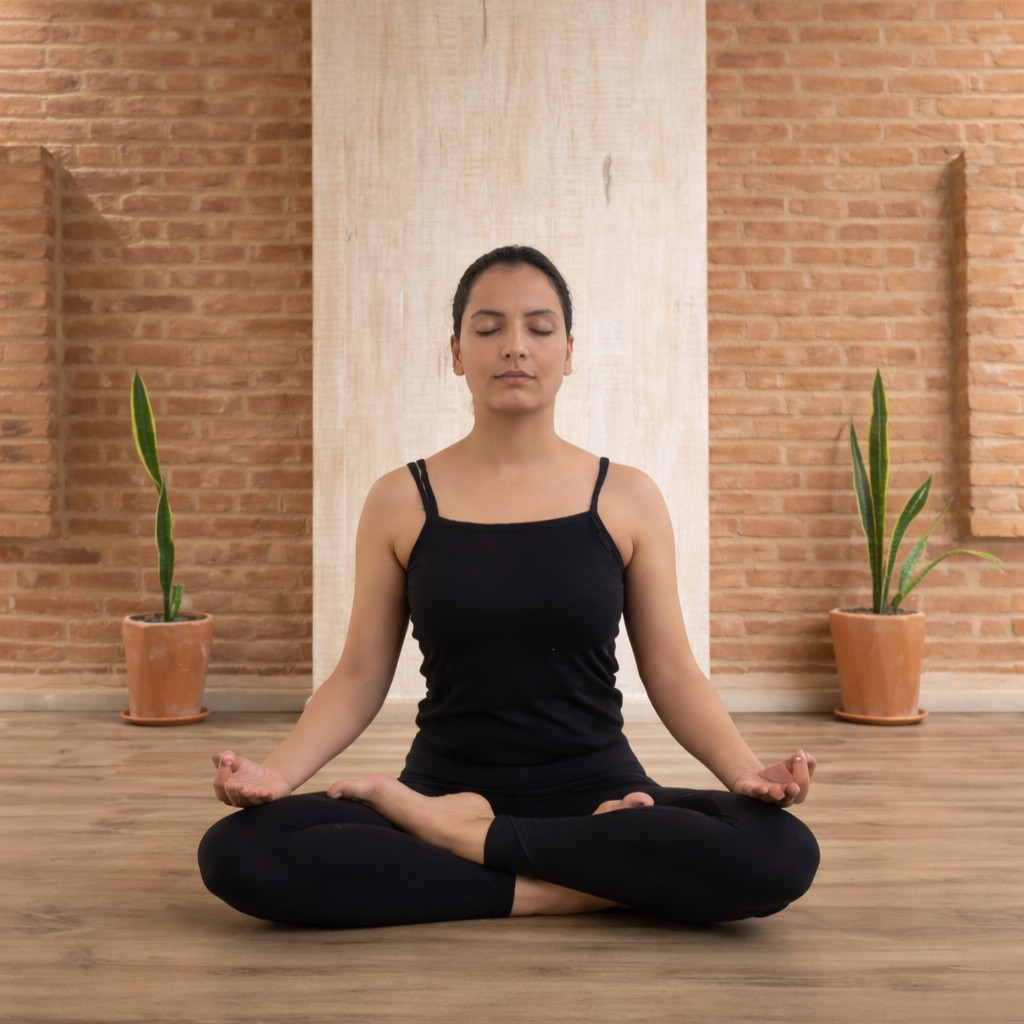
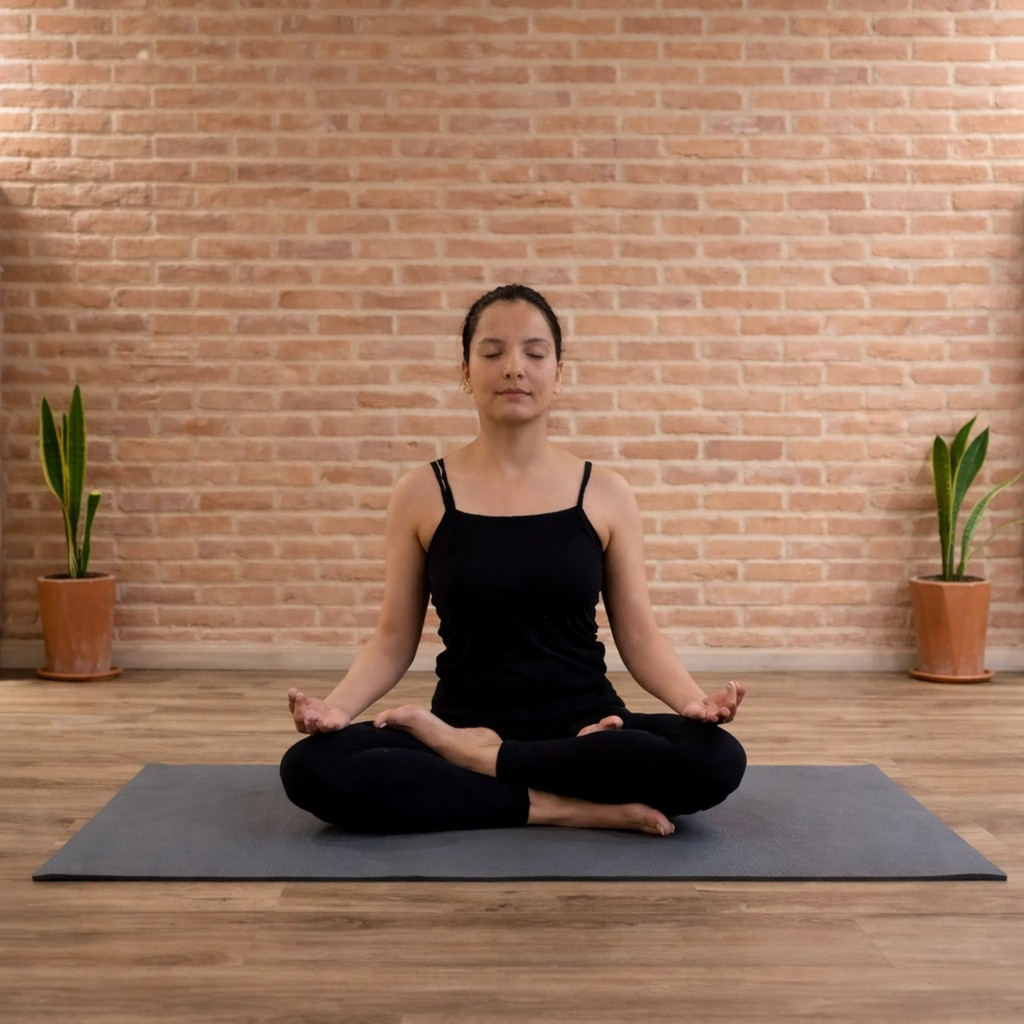
dep

diff --git a/app/globals.css b/app/globals.css
@@ -1,4 +1,4 @@
-@import url("https://fonts.googleapis.com/css2?family=Montserrat:wght@500;600;700&family=Nunito+Sans:wght@400;500;600;700&display=swap");
+/* Fonts load via next/font in app/layout.js (avoids blocking @import to Google) */
 
 /* Calm Pastel — brighter whites, lighter bands, less gray-lavender “fog” */
 :root {
@@ -32,7 +32,7 @@ body {
 }
 
 body {
-  font-family: "Nunito Sans", sans-serif;
+  font-family: var(--font-nunito), system-ui, sans-serif;
   background: var(--bg);
   color: var(--ink);
   position: relative;
@@ -89,7 +89,7 @@ h3,
 h4,
 h5 {
   margin: 0;
-  font-family: "Montserrat", sans-serif;
+  font-family: var(--font-montserrat), system-ui, sans-serif;
   color: var(--ink);
   font-weight: 600;
 }
@@ -219,7 +219,7 @@ p {
 }
 
 .brand {
-  font-family: "Montserrat", sans-serif;
+  font-family: var(--font-montserrat), system-ui, sans-serif;
   font-size: 22px;
   font-weight: 700;
   color: var(--ink);
@@ -553,7 +553,7 @@ p {
   width: min(94%, 460px);
   height: 480px;
   object-fit: cover;
-  object-position: top center;
+  object-position: center 42%;
   border-radius: 28px;
   box-shadow: 0 28px 52px rgba(90, 75, 120, 0.2);
 }
@@ -2066,7 +2066,7 @@ p {
   }
 
   .programRowMobileName {
-    font-family: "Montserrat", sans-serif;
+    font-family: var(--font-montserrat), system-ui, sans-serif;
     font-size: clamp(17px, 5vw, 20px);
     font-weight: 600;
     color: var(--ink);

diff --git a/app/layout.js b/app/layout.js
@@ -1,13 +1,32 @@
-import './globals.css';
+import "./globals.css";
+import { Montserrat, Nunito_Sans } from "next/font/google";
+
+const montserrat = Montserrat({
+  subsets: ["latin"],
+  weight: ["500", "600", "700"],
+  variable: "--font-montserrat",
+  display: "swap",
+});
+
+const nunitoSans = Nunito_Sans({
+  subsets: ["latin"],
+  weight: ["400", "500", "600", "700"],
+  variable: "--font-nunito",
+  display: "swap",
+});
 
 export const metadata = {
-  title: 'Astha Parajuli | Personal Yoga Trainer',
-  description: 'Book a session with Astha Parajuli for personal yoga and meditation coaching programs.'
+  title: "Astha Parajuli | Personal Yoga Trainer",
+  description:
+    "Book a session with Astha Parajuli for personal yoga and meditation coaching programs.",
 };
 
 export default function RootLayout({ children }) {
   return (
-    <html lang="en">
+    <html
+      lang="en"
+      className={`${montserrat.variable} ${nunitoSans.variable}`}
+    >
       <body>{children}</body>
     </html>
   );

diff --git a/app/page.js b/app/page.js
@@ -151,7 +151,9 @@ export default function Home() {
           <div className="shapeTwo" />
           <img
             src="/astha-hero.png"
-            alt="Astha Parajuli – Yoga and Wellness Trainer"
+            alt="Yoga and meditation in a calm studio — peaceful practice"
+            width={1080}
+            height={1080}
           />
           <div className="floatingCard">
             <strong>Moonlight Sound Healing</strong>

diff --git a/app/siteData.js b/app/siteData.js
@@ -8,7 +8,7 @@ export const navItems = [
 
 export const siteContact = {
   location: 'Kathmandu 44600, Nepal',
-  email: 'biz.bibek2@gmail.com',
+  email: 'wellbeing.astha@gmail.com',
   phone: '+977 9810382425',
   hours: 'Mon-Sat: 6:00 AM - 8:00 PM'
 };
